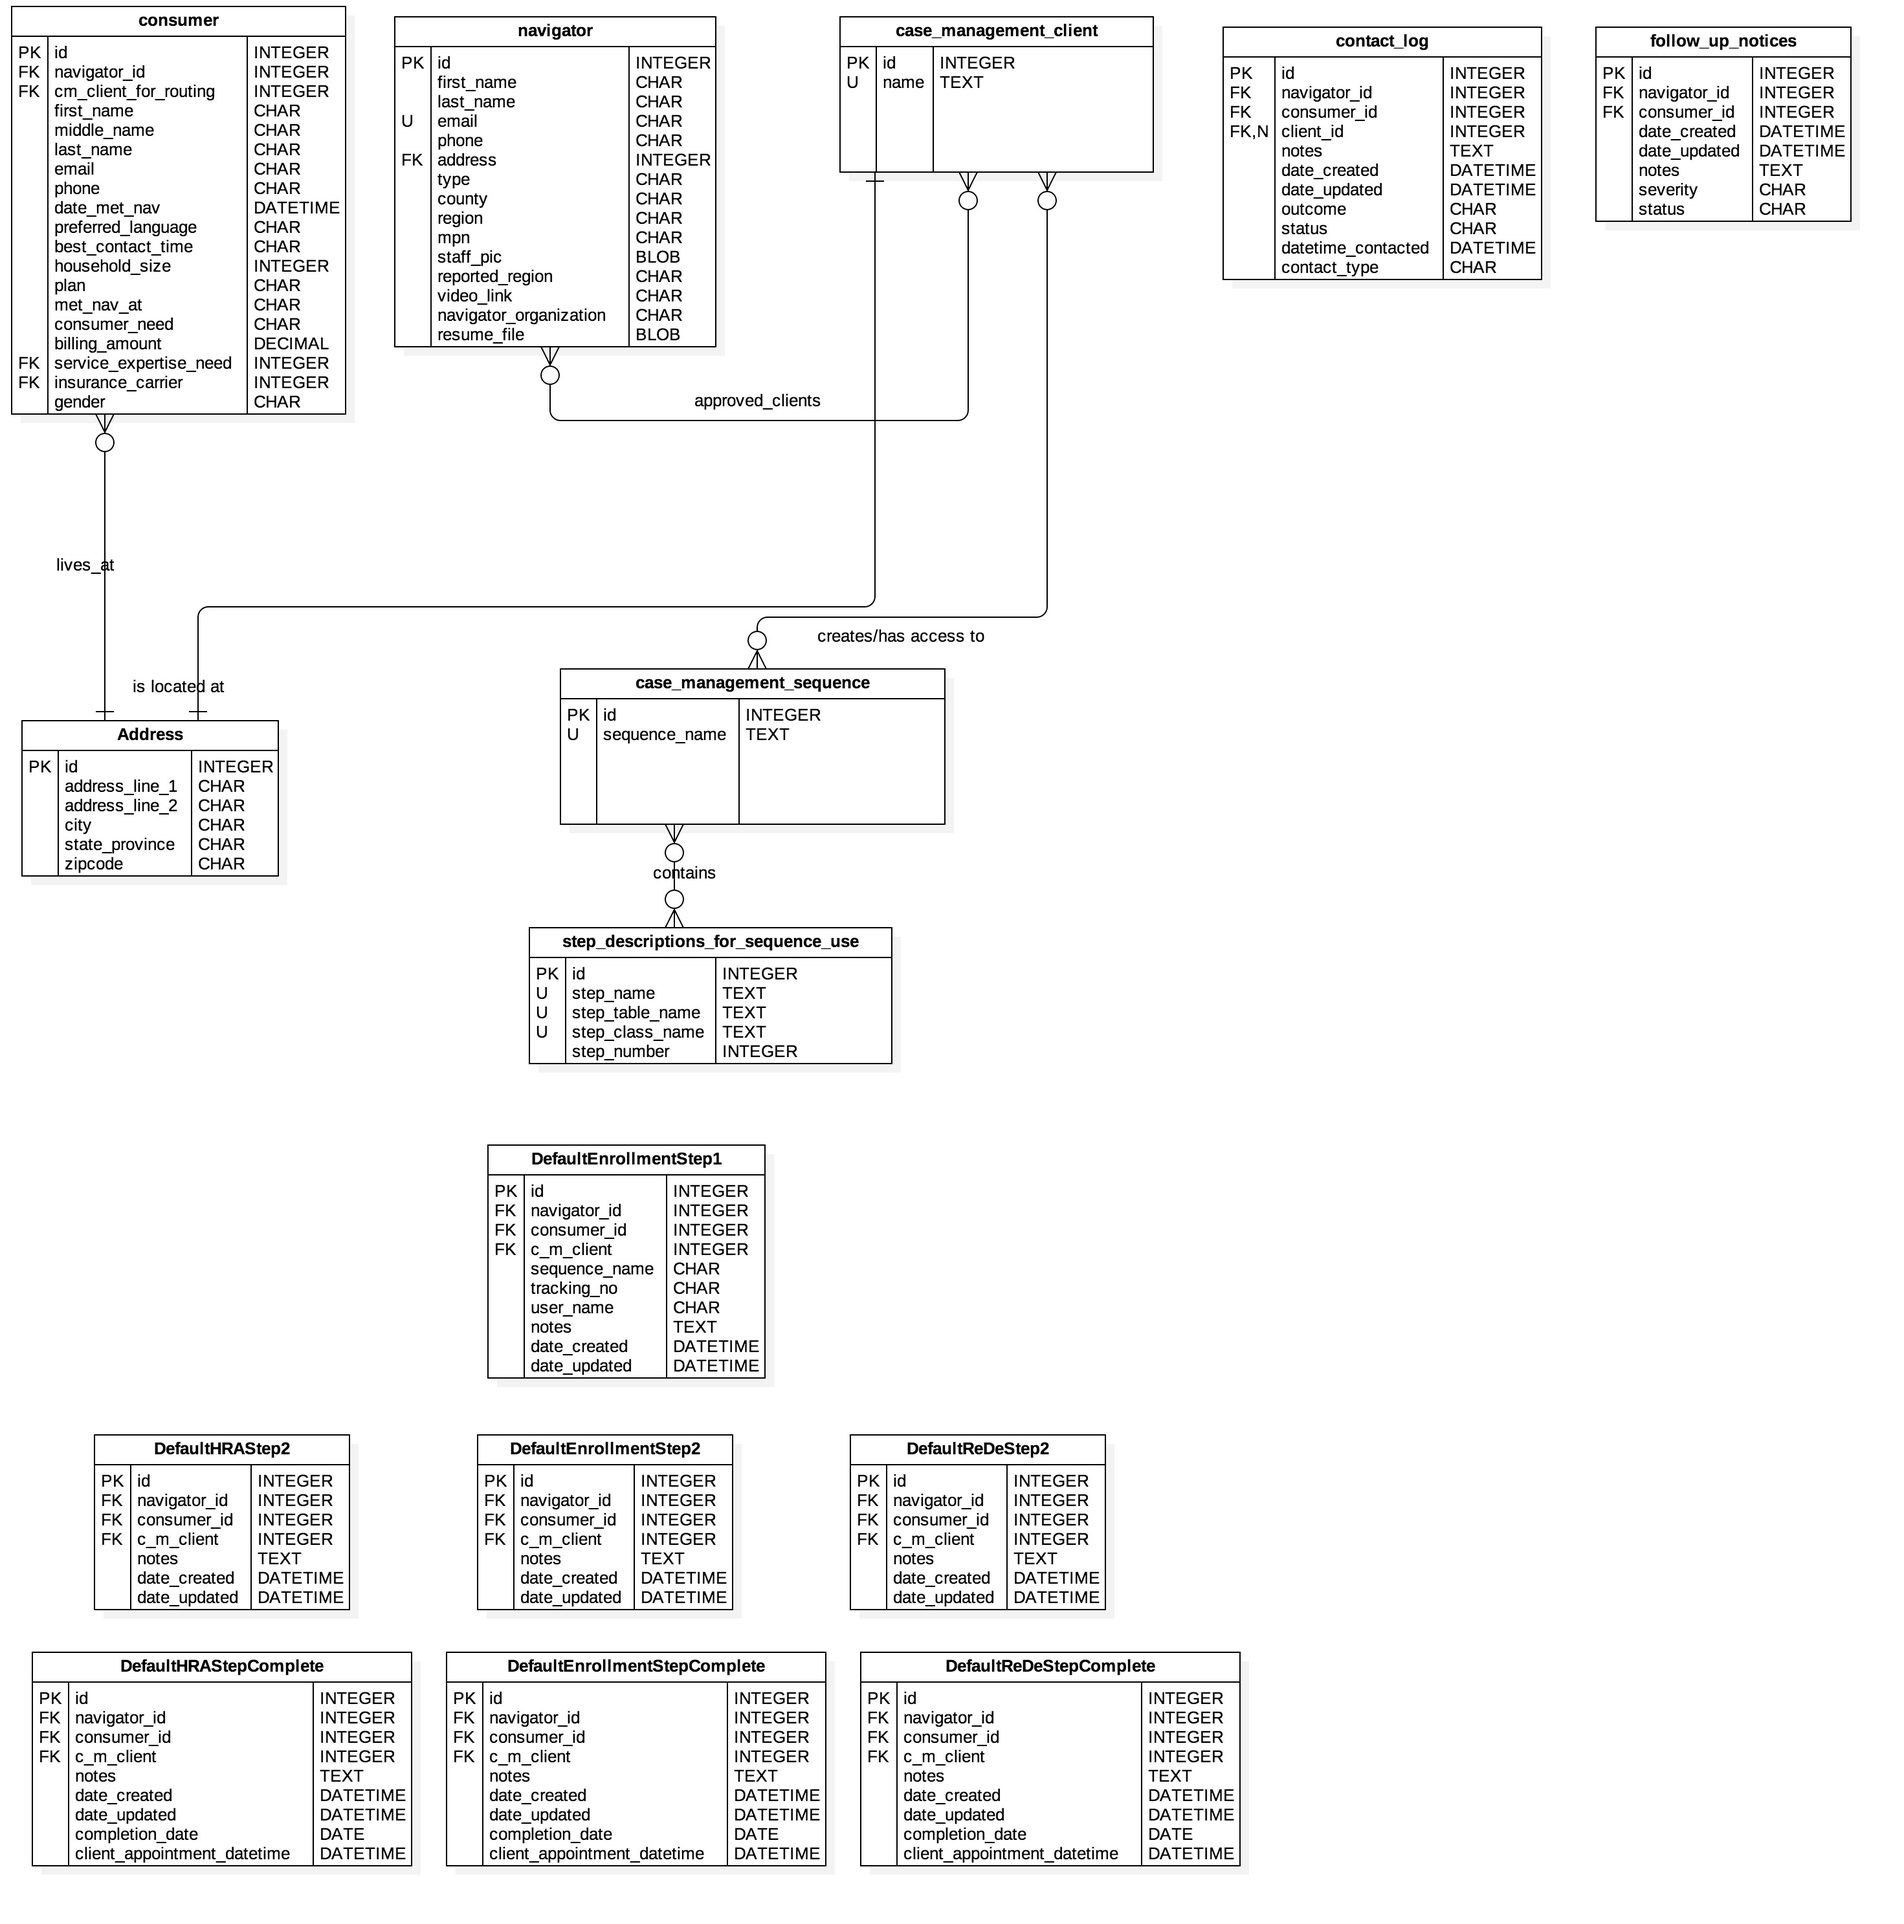
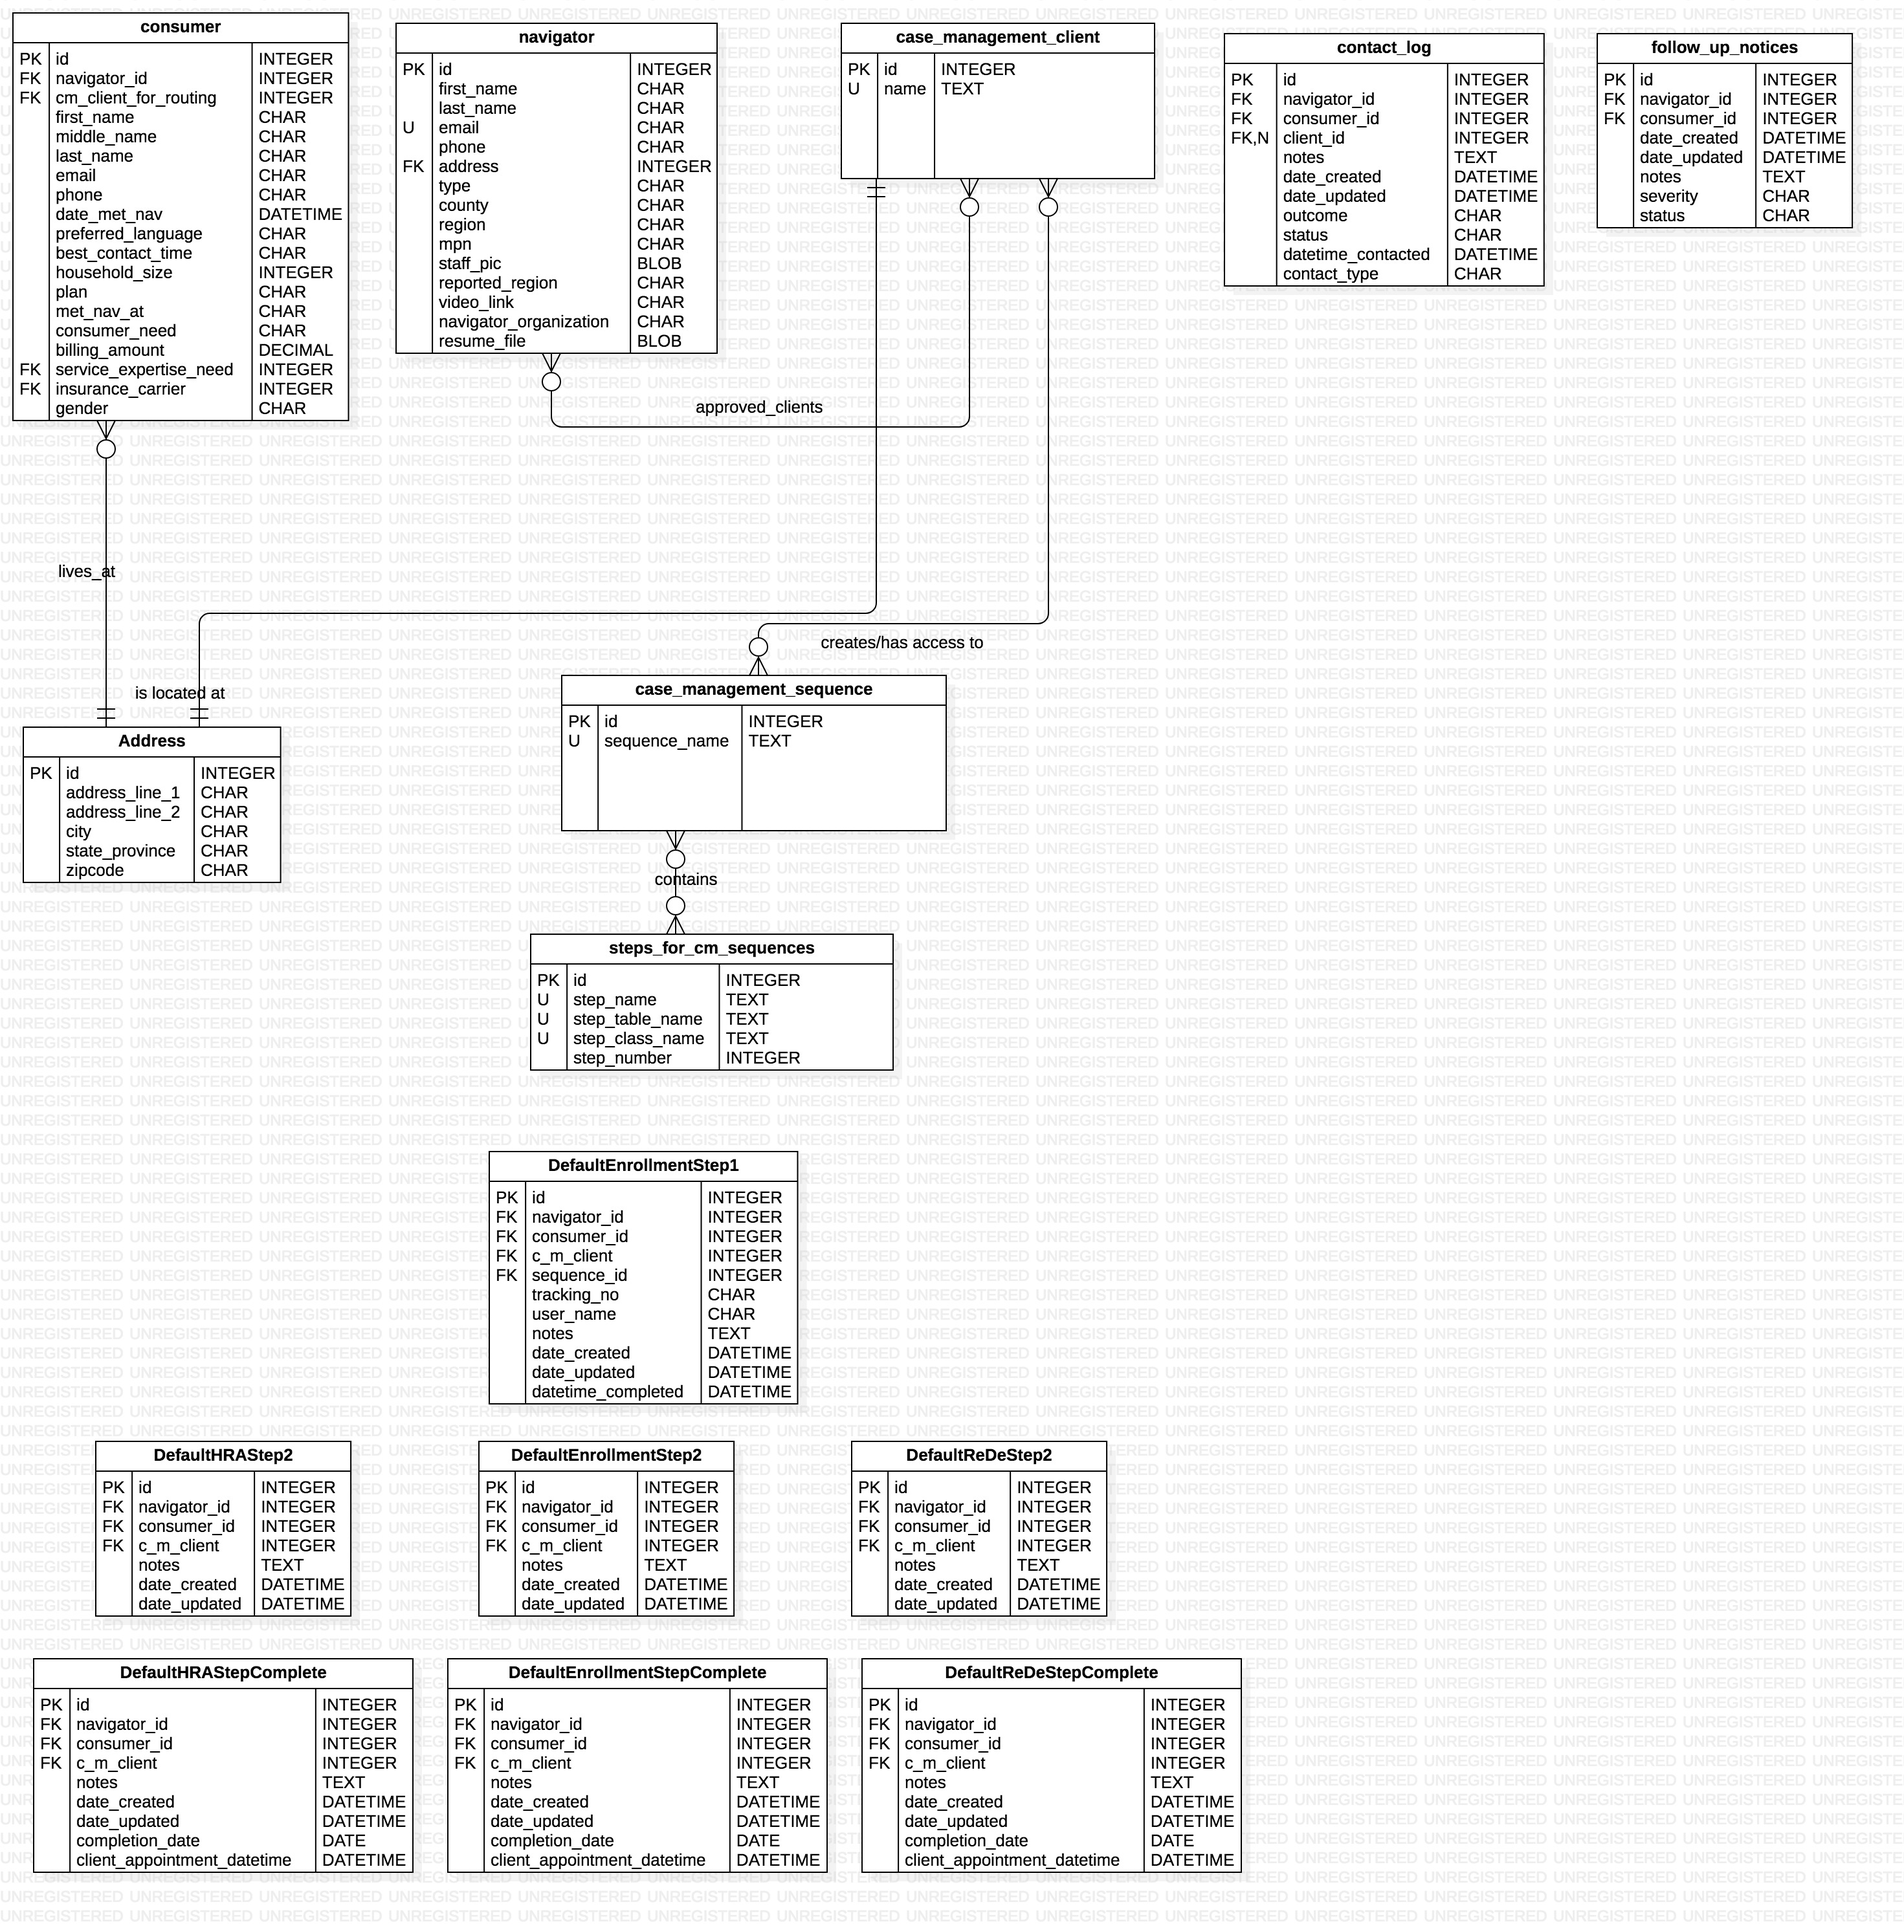
-Updated docs

diff --git a/picmodels/models/care_advisors/case_management_models/steps_for_sequences_models/services/create_update_delete.py b/picmodels/models/care_advisors/case_management_models/steps_for_sequences_models/services/create_update_delete.py
@@ -1,4 +1,3 @@
-import picmodels
 from django.db import IntegrityError
 from django.apps import apps
 
@@ -20,23 +19,28 @@ def create_row_w_validated_params(cls, validated_params, rqst_errors):
     if rqst_errors:
         return None
 
-    if not rqst_errors:
-        row.step_class_name = step_table_class.__name__
-        row.step_table_name = step_table_class._meta.db_table
-        row.step_name = validated_params['step_name']
-        row.step_number = validated_params['step_number']
+    if 'step_table_name' in validated_params:
+        step_table_name_found = check_db_schema_for_table_name(validated_params['step_table_name'], rqst_errors)
+        if not step_table_name_found:
+            return None
 
-        if 'step_table_name' in validated_params:
-            row.step_table_name = validated_params['step_table_name']
+    if rqst_errors:
+        return None
 
-        try:
-            row.save()
-        except IntegrityError:
-            rqst_errors.append(
-                "'step_name', 'step_table_name', and 'step_class_name' must be unique for row to be saved. A row already with the same values for those columns."
-            )
-    else:
-        row = None
+    row.step_class_name = step_table_class.__name__
+    row.step_table_name = step_table_class._meta.db_table
+    row.step_name = validated_params['step_name']
+    row.step_number = validated_params['step_number']
+
+    if 'step_table_name' in validated_params:
+        row.step_table_name = validated_params['step_table_name']
+
+    try:
+        row.save()
+    except IntegrityError:
+        rqst_errors.append(
+            "'step_name', 'step_table_name', and 'step_class_name' must be unique for row to be saved. A row already with the same values for those columns."
+        )
 
     return row
 
@@ -61,6 +65,10 @@ def update_row_w_validated_params(cls, validated_params, rqst_errors):
         row.step_class_name = step_table_class.__name_
 
     if "step_table_name" in validated_params:
+        step_table_name_found = check_db_schema_for_table_name(validated_params['step_table_name'], rqst_errors)
+        if not step_table_name_found:
+            return None
+
         row.step_table_name = validated_params["step_table_name"]
     if "step_name" in validated_params:
         row.step_name = validated_params["step_name"]
@@ -110,3 +118,20 @@ def get_step_table_class_with_given_class_name(step_class_name, rqst_errors):
             rqst_errors.append("No class found in app for given step_class_name")
 
     return step_table_class
+
+
+def check_db_schema_for_table_name(table_name, rqst_errors):
+    table_name_found = False
+
+    if table_name:
+        app_models = apps.get_app_config('picmodels').get_models()
+
+        for model in app_models:
+            if model._meta.db_table_ == table_name:
+                table_name_found = True
+                break
+
+        if not table_name_found:
+            rqst_errors.append("No table in db found for given table_name")
+
+    return table_name_found

diff --git a/docs/API_Version_2/case_management_API/steps_for_cm_sequences/README.md b/docs/API_Version_2/case_management_API/steps_for_cm_sequences/README.md
@@ -1,0 +1,134 @@
+# Steps for CM Sequences Backend API README (IN DEVELOPMENT)
+
+
+## Entity Relationship Diagram for "Steps for CM Sequences" related data models
+
+![Steps for CM Sequences Entity Relationship Diagram](steps_for_cm_sequences_erd.jpg)
+
+
+### Modify Steps for CM Sequences Table Rows (IN DEVELOPMENT)
+To create, update, or delete a row in the StepsForCMSequences table of the database, make a PUT request to: http://picbackend.herokuapp.com/v2/steps_for_cm_sequences/.
+
+- The headers of the request MUST include: 
+    - "Content-Type: "application/json""
+    - "X-Requested-With: "XMLHttpRequest"""
+    
+The body of the request must be a JSON document using the following template:
+
+```
+{
+    "step_name": String,
+    "step_table_name": String (Table MUST be present in db schema.),
+    "step_class_name": String (Class model for Table MUST be present in db schema.),
+    "step_number": Integer (Must be > than 0),
+    
+    "db_action": String,
+    "id": Integer,
+}
+```
+
+In response, a JSON document will be displayed with the following format:
+```
+{
+    "Status":
+        {
+            "Error Code": Integer,
+            "Version": 2.0,
+            "Errors": Array
+            "Data": Object or "Deleted",
+        }
+}
+```
+
+- Create a StepsForCMSequences database row.
+    - To create a row in the StepsForCMSequences table, the value for "db_action" in the JSON Body must equal "create".
+    
+        - Keys that can be omitted:
+            - "id"
+            - "step_table_name"
+            
+        - Keys that can be empty strings:
+            - "step_table_name"
+        
+        - Keys that can be Null
+            - "step_table_name"
+
+    - If there are no errors in the JSON Body document:        
+        - The response JSON document will have a dictionary object as the value for the "Data" key.
+            - It contains the key "row", the value for which is an object with the fields of the created row.
+    
+- Update a StepsForCMSequences database row.
+    - To update a row in the StepsForCMSequences table, the value for "db_action" in the JSON Body must equal "update".
+    - All key value pairs in the JSON Body document correspond to updated fields for specified "id"
+    - Note: at least one key other than "id" and "db_action" must be present
+    
+        - Keys that can be omitted:
+            - all except "id" and "db_action"
+        
+        - Keys that can be empty strings:
+            - "step_table_name"
+        
+        - Keys that can be Null
+            - "step_table_name"
+        
+    - If there are no errors in the JSON Body document:
+        - The response JSON document will have a dictionary object as the value for the "Data" key.
+            - It contains the key "row", the value for which is an object with the fields of the updated row.
+
+- Delete a StepsForCMSequences database row.
+    - To delete a row in the StepsForCMSequences table, the value for "db_action" in the JSON Body must equal "delete".
+    
+        - Keys that can be omitted:
+            - all except "id" and "db_action"
+        
+    - If there are no errors in the JSON Body document:
+        - The response JSON document will have a dictionary object as the value for the "Data" key.
+            - It contains the key "row", the value for which is "Deleted".
+    
+    
+### Steps for CM Sequences Data Retrieval API (IN DEVELOPMENT)
+- To read rows from the StepsForCMSequences table of the backend, make a GET request to http://picbackend.herokuapp.com/v2/steps_for_cm_sequences/
+    - Results will be filtered by the given parameters.
+    - Parameters are divided into 2 categories: "primary" and "secondary"
+    
+    - "Primary" parameters - One and exactly one of these parameters are required in every request.
+        - "id" corresponds to database id.
+            - Must be an integer
+            - Can be multiple values separated by commas.
+            - passing "all" as the value will return all staff members.
+        - "name" corresponds to the company_name column of the NavOrgsFromOnlineForm table.
+            - Must be an ascii string that has all non-ascii characters url encoded
+            
+    - "Secondary" parameters - Any number of these parameters can be added to a request.
+        - None
+        
+- The response will be a JSON document with the following format:
+    ```
+    {
+        "Data": [
+            {
+                "step_name": String,
+                "step_table_name": String,
+                "step_class_name": String,
+                "step_number": Integer,
+            },
+            ...,
+            ...,
+            ...,
+        ],
+        "Status": {
+            "Version": 2.0,
+            "Error Code": Integer,
+            "Errors": Array
+        }
+    }
+    ```
+
+- If StepsForCMSequences table rows are found,
+    - "Error Code" will be 0
+    - Array corresponding to the "Data" key will be non empty.
+- If StepsForCMSequences table rows are not found,
+    - "Error Code" will be 1.
+    - An array of length > 0 will be the value for the "Errors" key in the "Status" dictionary.
+        -Each item in the array is a string corresponding to an error in the JSON Body doc.
+    - Array corresponding to the "Data" key will be empty.

diff --git a/docs/API_Version_2/Consumer_Backend_API.md b/docs/API_Version_2/Consumer_Backend_API.md
@@ -319,6 +319,13 @@ In response, a JSON document will be displayed with the following format:
             - Can be multiple values separated by commas.
         - "is_cps_consumer" corresponds to whether consumer is a Chicago Public Schools consumer.
             - must be of type boolean (true or false)
+        - "cm_client_id" corresponds to the cm_client_for_routing field database id.
+            - Must be an integer
+            - Can be multiple values separated by commas.
+            - passing "all" as the value will return all rows with a non null value for cm_client.
+        - "referring_cm_client_id" corresponds to the referring_cm_client_id field database id.
+            - Must be an integer
+            - Can be multiple values separated by commas.
         - "page" corresponds to the current page of consumer instances to be displayed with full fields.
             - if this parameter is missing, the first 20 consumer instances will be displayed with full fields.
         

diff --git a/docs/API_Version_2/case_management_API/README.md b/docs/API_Version_2/case_management_API/README.md
@@ -18,5 +18,9 @@
 [Follow Up Notices Endpoints API README](follow_up_notices/README.md)
 
 
-## Case Management Sequences Backend API README (IN DEVELOPMENT)
+## Case Management Sequences Backend API README
 [Case Management Sequences Endpoints API README](sequences/README.md)
+
+
+## Steps for CM Sequences Backend API README (IN DEVELOPMENT)
+[Steps for CM Sequences Endpoints API README](steps_for_cm_sequences/README.md)
